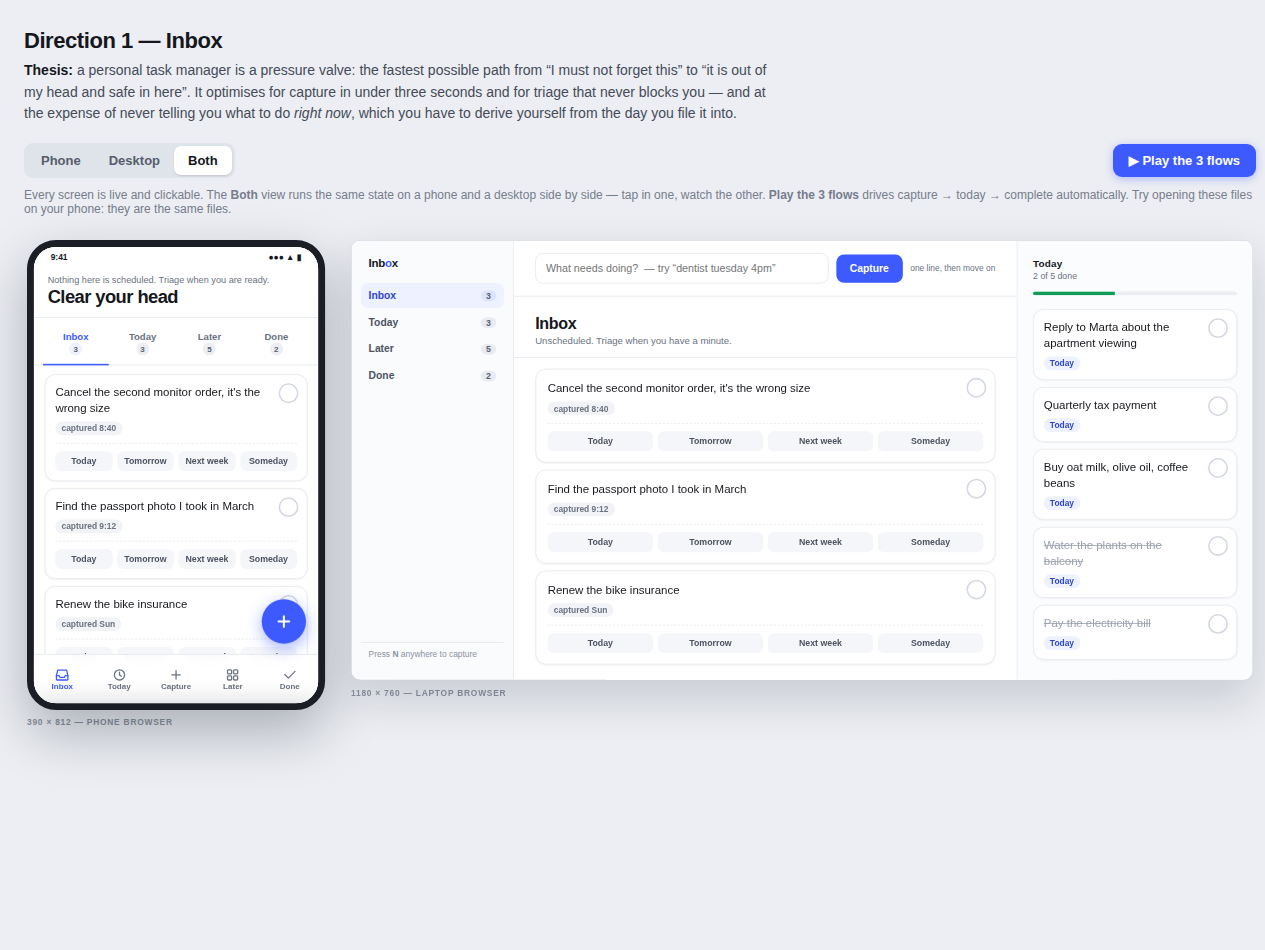
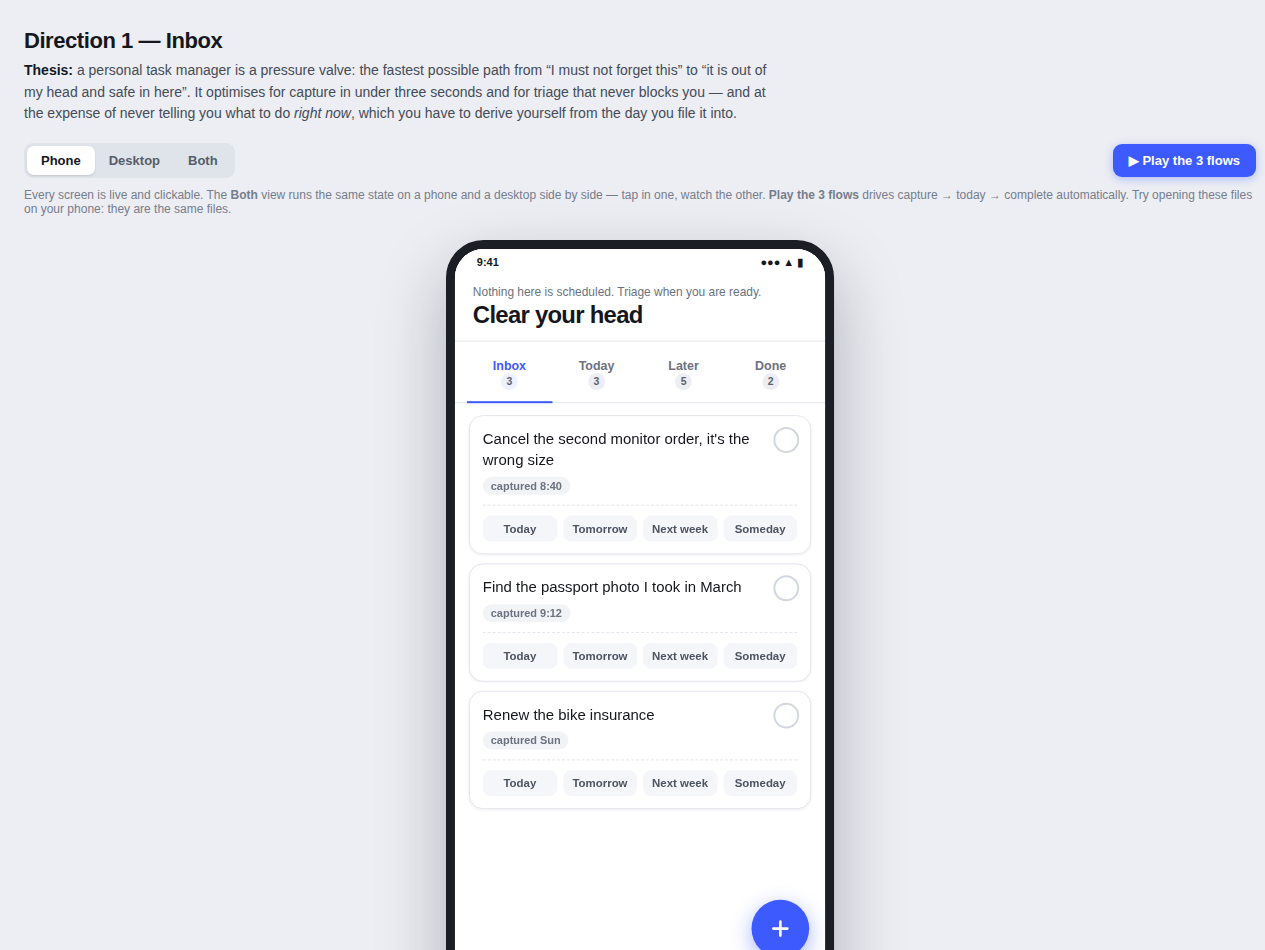
Refresh prototypes and re-render screenshots
dev.design fixed several real defects after the first render and changed
the responsive breakpoint: below 1200px both frames previously shrank to
illegibility instead of collapsing to the phone view alone.

Verified the Today tab independently before re-rendering. It renders
populated ("Here is today", 26 rows), so that fix predated the committed
screenshots and the "stale screenshots" warning was partly wrong.

diff --git a/design/inbox/index.html b/design/inbox/index.html
@@ -532,6 +532,9 @@ function fitStage(){
   // the gaps are NOT scaled, so they must come out of the budget before dividing
   // (dividing by sum+gaps overshoots by a couple of px and flex wraps).
   const s = Math.max(0.35, Math.min(1, (avail - gaps) / sum)) * 0.995;
+  // Two frames shrunk past this stop being readable. Showing one usable view beats
+  // showing two illegible ones — on a phone, "Both" is never the right answer.
+  if (s < 0.62 && wraps.length > 1 && store.view !== "phone"){ setView("phone"); return; }
   if (s > 0.999) return;                       // fits natively — leave it at 1:1
   wraps.forEach(w => {
     const r = w.getBoundingClientRect();
@@ -600,8 +603,9 @@ document.getElementById("play").addEventListener("click", runDemo);
 render();
 fitStage();
 window.addEventListener("load", fitStage);
-// a phone-only visit should land on the phone view, not a squeezed pair
-if (window.innerWidth < 760) setView("phone");
+// Below laptop width there is no room for both frames side by side. Showing the
+// phone view alone beats showing two illegibly shrunk ones.
+if (window.innerWidth < 1200) setView("phone"); else setView("both");
 </script>
 </body>
 </html>

diff --git a/design/now/index.html b/design/now/index.html
@@ -492,6 +492,9 @@ function fitStage(){
   // the gaps are NOT scaled, so they must come out of the budget before dividing
   // (dividing by sum+gaps overshoots by a couple of px and flex wraps).
   const s = Math.max(0.35, Math.min(1, (avail - gaps) / sum)) * 0.995;
+  // Two frames shrunk past this stop being readable. Showing one usable view beats
+  // showing two illegible ones — on a phone, "Both" is never the right answer.
+  if (s < 0.62 && wraps.length > 1 && store.view !== "phone"){ setView("phone"); return; }
   if (s > 0.999) return;                       // fits natively — leave it at 1:1
   wraps.forEach(w => {
     const r = w.getBoundingClientRect();
@@ -549,8 +552,9 @@ document.getElementById("play").addEventListener("click", runDemo);
 render();
 fitStage();
 window.addEventListener("load", fitStage);
-// a phone-only visit should land on the phone view, not a squeezed pair
-if (window.innerWidth < 760) setView("phone");
+// Below laptop width there is no room for both frames side by side. Showing the
+// phone view alone beats showing two illegibly shrunk ones.
+if (window.innerWidth < 1200) setView("phone"); else setView("both");
 </script>
 </body>
 </html>

diff --git a/design/threads/index.html b/design/threads/index.html
@@ -412,6 +412,9 @@ function fitStage(){
   // the gaps are NOT scaled, so they must come out of the budget before dividing
   // (dividing by sum+gaps overshoots by a couple of px and flex wraps).
   const s = Math.max(0.35, Math.min(1, (avail - gaps) / sum)) * 0.995;
+  // Two frames shrunk past this stop being readable. Showing one usable view beats
+  // showing two illegible ones — on a phone, "Both" is never the right answer.
+  if (s < 0.62 && wraps.length > 1 && store.view !== "phone"){ setView("phone"); return; }
   if (s > 0.999) return;                       // fits natively — leave it at 1:1
   wraps.forEach(w => {
     const r = w.getBoundingClientRect();
@@ -470,8 +473,9 @@ document.getElementById("play").addEventListener("click", runDemo);
 render();
 fitStage();
 window.addEventListener("load", fitStage);
-// a phone-only visit should land on the phone view, not a squeezed pair
-if (window.innerWidth < 760) setView("phone");
+// Below laptop width there is no room for both frames side by side. Showing the
+// phone view alone beats showing two illegibly shrunk ones.
+if (window.innerWidth < 1200) setView("phone"); else setView("both");
 </script>
 </body>
 </html>
